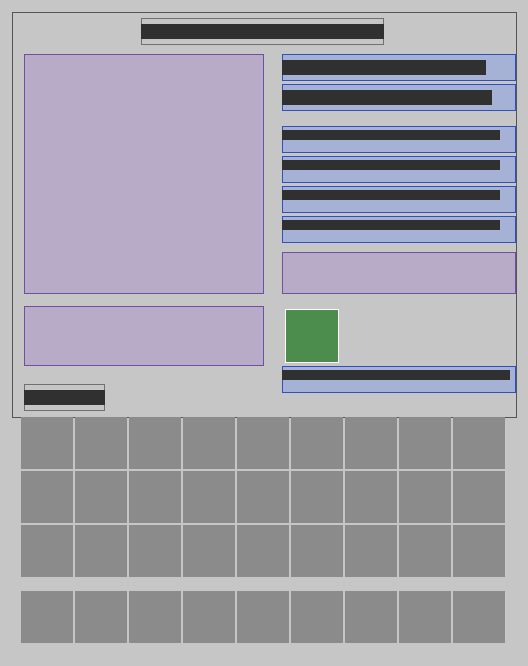
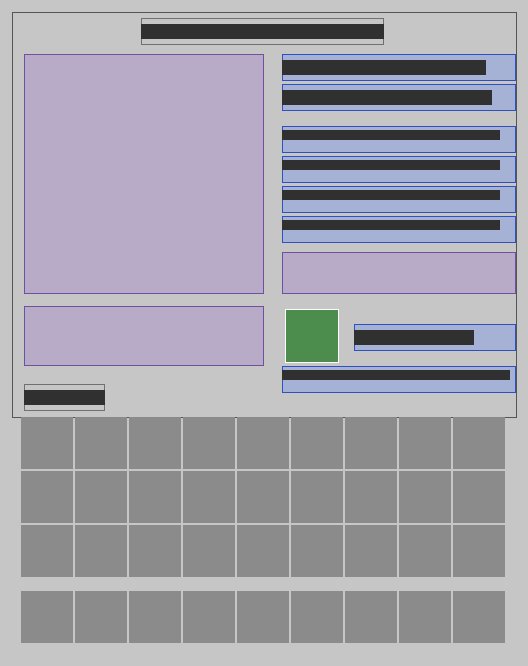
S-003: contamination has an effect - leak paths on p-n junction edges (Circuit, LEAK_PER_DIRT x dirt per edge), the probe varies leak strength 0.5-1.5x per Probe so dirty chips sometimes work and sometimes not; dirt line on the probe screen; no hard gate on coating. 8x8 example: process dirt 14 give

Changed region(s): [[0.6667, 0.4805, 1.0, 0.5405]]

diff --git a/src/main/java/com/taku3/semiconductorlab/litho/Circuit.java b/src/main/java/com/taku3/semiconductorlab/litho/Circuit.java
@@ -21,6 +21,12 @@ public final class Circuit {
     static final double VT = 0.02585, IS = 1e-14, ALPHA = 0.99, CONTACT_OHMS = 20, GMIN = 1e-9;
     /** これより大きい順方向の電圧は直線でのばす（指数が大きくなりすぎないように） */
     static final double VMAX = 0.85;
+    /**
+     * 汚れ1つあたり、pn 接合の辺1つに並ぶ漏れのコンダクタンス（S、ゲームの値 ⚠、S-003）。
+     * 金属の汚れ（Na・Fe など）は接合のまわりに漏れ道を作る。8×8 の NOT の例は工程の汚れ約14で出力の高い方が約3.7 Vに下がり、
+     * 汚れが200ほどになると動かない
+     */
+    public static final double LEAK_PER_DIRT = 3e-7;
 
     /** 解いた結果：点ごとの電圧、パッドから流れこむ電流（A）、マスごとの電流の大きさ（表示用） */
     public record Solution(double[] volts, Map<Integer, Double> padAmps, double[] cellAmps, boolean converged) {
@@ -39,8 +45,12 @@ public final class Circuit {
     private static double gd(double v) { return IS / VT * Math.exp(Math.min(v, VMAX) / VT); }
 
     /** drive：パッドの線の番号 → 電圧（つながないパッドは入れない） */
-    public static Solution solve(Netlist nl, Map<Integer, Double> drive) {
+    public static Solution solve(Netlist nl, Map<Integer, Double> drive) { return solve(nl, drive, 1.0); }
+
+    /** leakScale：漏れの強さの倍率（検査台で「調べる」たびに少し変わる＝汚れたチップは動いたり動かなかったりする） */
+    public static Solution solve(Netlist nl, Map<Integer, Double> drive, double leakScale) {
         ChipModel m = nl.model;
+        double leak = LEAK_PER_DIRT * m.contamination * leakScale;
         int n = m.size, cells = n * n, nodes = cells + nl.nets.size();
         List<Res> res = new ArrayList<>();
         List<Dio> dio = new ArrayList<>();
@@ -53,7 +63,10 @@ public final class Circuit {
                 if (!m.inside(a, b)) continue;
                 int j = b * n + a;
                 if (m.type(x, y) == m.type(a, b)) res.add(new Res(i, j, 2 / (m.sheetOhms(x, y) + m.sheetOhms(a, b))));
-                else if (m.type(x, y) == 'p') dio.add(new Dio(i, j)); else dio.add(new Dio(j, i));
+                else {
+                    if (m.type(x, y) == 'p') dio.add(new Dio(i, j)); else dio.add(new Dio(j, i));
+                    if (leak > 0) res.add(new Res(i, j, leak));   // 汚れの漏れ道
+                }
             }
         }
         for (Netlist.Transistor t : nl.transistors) {
@@ -193,17 +206,21 @@ public final class Circuit {
     private static boolean isPad(Netlist nl, int net) { return net >= 0 && nl.nets.get(net).isPad(); }
 
     /** NOT のパッドに 入力を与えて出力の電圧を計算（出力はつながない） */
-    public static double notOutput(Netlist nl, int[] pins, boolean input) {
+    public static double notOutput(Netlist nl, int[] pins, boolean input) { return notOutput(nl, pins, input, 1.0); }
+
+    public static double notOutput(Netlist nl, int[] pins, boolean input, double leakScale) {
         Map<Integer, Double> d = new HashMap<>();
         d.put(pins[0], input ? VCC : 0.0);
         d.put(pins[2], VCC);
         d.put(pins[3], 0.0);
-        return solve(nl, d).netVolts(nl, pins[1]);
+        return solve(nl, d, leakScale).netVolts(nl, pins[1]);
     }
 
     /** NOT として本当に動くか（入力 0 → 出力が高い、入力 1 → 出力が低い） */
-    public static boolean worksAsNot(Netlist nl) {
+    public static boolean worksAsNot(Netlist nl) { return worksAsNot(nl, 1.0); }
+
+    public static boolean worksAsNot(Netlist nl, double leakScale) {
         int[] p = notPins(nl);
-        return p != null && notOutput(nl, p, false) > HIGH && notOutput(nl, p, true) < HIGH;
+        return p != null && notOutput(nl, p, false, leakScale) > HIGH && notOutput(nl, p, true, leakScale) < HIGH;
     }
 }

diff --git a/src/main/java/com/taku3/semiconductorlab/litho/Discoveries.java b/src/main/java/com/taku3/semiconductorlab/litho/Discoveries.java
@@ -2,7 +2,6 @@ package com.taku3.semiconductorlab.litho;
 
 import java.util.ArrayList;
 import java.util.List;
-import java.util.function.Predicate;
 
 /**
  * 発見の一覧（LITHO_DESIGN §6.3）。検査台でチップを調べ、歴史上の発明と同じつながりなら「見つけた」とする。
@@ -12,7 +11,7 @@ public final class Discoveries {
     private Discoveries() {}
 
     /** 発見1つ：id（lang・図鑑・進捗の名前）・年・ノード・判定 */
-    public record Discovery(String id, int year, String node, Predicate<Netlist> test) {
+    public record Discovery(String id, int year, String node, java.util.function.BiPredicate<Netlist, Double> test) {
         /** lang：litho.semiconductor-lab.discovery.&lt;id&gt;（名前）・.found（「あなたは…を自分で作った」） */
         public String langKey() { return "litho.semiconductor-lab.discovery." + id; }
     }
@@ -20,22 +19,25 @@ public final class Discoveries {
     private static final List<Discovery> ALL = new ArrayList<>();
 
     static {
-        add("diffused_resistor", 1958, "9-22", nl -> !nl.resistors.isEmpty());
-        add("junction_diode", 1940, "9-05", nl -> !nl.diodes.isEmpty() || !nl.transistors.isEmpty());
-        add("planar_transistor", 1959, "9-18", nl -> !nl.transistors.isEmpty());
-        add("rtl_not", 1961, "10-09", Circuit::worksAsNot);
+        add("diffused_resistor", 1958, "9-22", (nl, k) -> !nl.resistors.isEmpty());
+        add("junction_diode", 1940, "9-05", (nl, k) -> !nl.diodes.isEmpty() || !nl.transistors.isEmpty());
+        add("planar_transistor", 1959, "9-18", (nl, k) -> !nl.transistors.isEmpty());
+        add("rtl_not", 1961, "10-09", Circuit::worksAsNot);   // 汚れた（漏れる）チップは動かないことがある
     }
 
-    private static void add(String id, int year, String node, Predicate<Netlist> test) { ALL.add(new Discovery(id, year, node, test)); }
+    private static void add(String id, int year, String node, java.util.function.BiPredicate<Netlist, Double> test) { ALL.add(new Discovery(id, year, node, test)); }
 
     public static List<Discovery> all() { return List.copyOf(ALL); }
 
     public static Discovery byId(String id) { return ALL.stream().filter(d -> d.id().equals(id)).findFirst().orElse(null); }
 
     /** このチップで見つかるもの（一覧の順） */
-    public static List<Discovery> match(Netlist nl) {
+    public static List<Discovery> match(Netlist nl) { return match(nl, 1.0); }
+
+    /** leakScale：汚れの漏れの強さの倍率（検査台は「調べる」たびに 0.5〜1.5 で変える） */
+    public static List<Discovery> match(Netlist nl, double leakScale) {
         List<Discovery> out = new ArrayList<>();
-        for (Discovery d : ALL) if (d.test().test(nl)) out.add(d);
+        for (Discovery d : ALL) if (d.test().test(nl, leakScale)) out.add(d);
         return out;
     }
 }

diff --git a/src/gametest/java/com/taku3/semiconductorlab/gametest/SemiconductorTests.java b/src/gametest/java/com/taku3/semiconductorlab/gametest/SemiconductorTests.java
@@ -894,8 +894,17 @@ public class SemiconductorTests extends LabTestBase {
         be.onButton(player, padIndex.applyAsInt(pins[0]));                                              // 入力 5 V
         var sol = com.taku3.semiconductorlab.litho.Circuit.solve(nl, com.taku3.semiconductorlab.block.ProbeStationBlockEntity.drive(nl, be::padState));
         var hiIn = sol.netVolts(nl, pins[1]);
-        h.assertTrue(lo > 4.5 && hiIn < 1.5, String.format("probe: in 0 V -> out %.2f V, in 5 V -> out %.2f V", lo, hiIn));
+        h.assertTrue(lo > com.taku3.semiconductorlab.litho.Circuit.HIGH && hiIn < 1.5, String.format("probe: in 0 V -> out %.2f V, in 5 V -> out %.2f V (process dirt lowers the high side)", lo, hiIn));
         h.assertTrue(sol.padAmps().get(pins[2]) > 1e-4, "current flows from the 5 V pad when the transistor is on");
+        // 汚れ（S-003）：工程の汚れでも NOT として動くが、出力の高い方が下がる（漏れ）。とても汚れると動かない
+        var st = chip.get(ModDataComponents.CHIP_STATE);
+        var cleanNl = com.taku3.semiconductorlab.litho.Netlist.extract(com.taku3.semiconductorlab.litho.ChipModel.of(com.taku3.semiconductorlab.litho.ChipOps.clean(chip, 0).out().get(ModDataComponents.CHIP_STATE)));
+        double hiDirty = com.taku3.semiconductorlab.litho.Circuit.notOutput(nl, pins, false), hiClean = com.taku3.semiconductorlab.litho.Circuit.notOutput(cleanNl, pins, false);
+        h.assertTrue(st.contamination() > 0 && hiDirty < hiClean - 0.3 && hiDirty > com.taku3.semiconductorlab.litho.Circuit.HIGH,
+                String.format("dirt %d: out high %.2f V (clean %.2f V) - degraded but still a NOT", st.contamination(), hiDirty, hiClean));
+        var filthy = new com.taku3.semiconductorlab.litho.ChipState(st.size(), st.substrate(), st.done(), st.windows(), st.resist(), st.resistPattern(), st.metalFilm(), st.reclaims(), 200);
+        var filthyNl = com.taku3.semiconductorlab.litho.Netlist.extract(com.taku3.semiconductorlab.litho.ChipModel.of(filthy));
+        h.assertFalse(com.taku3.semiconductorlab.litho.Circuit.worksAsNot(filthyNl), "very dirty chip does not work as a NOT");
         h.assertTrue(be.onButton(player, com.taku3.semiconductorlab.block.ProbeStationBlockEntity.BTN_PROBE), "probe");
         h.assertValueEqual(be.found(), 0b1111, "four discoveries on this chip");
         for (var d : com.taku3.semiconductorlab.litho.Discoveries.all())

diff --git a/src/main/java/com/taku3/semiconductorlab/litho/ChipModel.java b/src/main/java/com/taku3/semiconductorlab/litho/ChipModel.java
@@ -10,15 +10,18 @@ public final class ChipModel {
     public final int size;
     /** 板の型 'p' / 'n' */
     public final char substrate;
+    /** 汚れ（[9-14]、S-003）：pn 接合の漏れ電流になる。設計図からの予想では 0 */
+    public final int contamination;
     /** マスの型 'p' / 'n' */
     private final char[] type;
     /** マスの型を決めた拡散の番号（0＝板、1＝1回目の拡散…）。あとの拡散ほど濃い */
     private final int[] level;
     private final boolean[] contact, metal;
 
-    private ChipModel(int size, char substrate) {
+    private ChipModel(int size, char substrate, int contamination) {
         this.size = size;
         this.substrate = substrate;
+        this.contamination = contamination;
         type = new char[size * size];
         level = new int[size * size];
         contact = new boolean[size * size];
@@ -36,8 +39,8 @@ public final class ChipModel {
         }
     }
 
-    private static ChipModel build(int size, String substrate, List<? extends Object> layers) {
-        ChipModel m = new ChipModel(size, substrate.isEmpty() ? 'p' : substrate.charAt(0));
+    private static ChipModel build(int size, String substrate, List<? extends Object> layers, int contamination) {
+        ChipModel m = new ChipModel(size, substrate.isEmpty() ? 'p' : substrate.charAt(0), contamination);
         int d = 0;
         for (Object o : layers) {
             LayerKind k; BitGrid g;
@@ -50,10 +53,10 @@ public final class ChipModel {
     }
 
     /** 工程を終えたウェハーの中身から（まだ露光していなければ null） */
-    public static ChipModel of(ChipState s) { return s.sized() ? build(s.size(), s.substrate(), s.done()) : null; }
+    public static ChipModel of(ChipState s) { return s.sized() ? build(s.size(), s.substrate(), s.done(), s.contamination()) : null; }
 
     /** 設計図から（板の型は substrate） */
-    public static ChipModel of(ChipDesign d, String substrate) { return build(d.size(), substrate, d.layers()); }
+    public static ChipModel of(ChipDesign d, String substrate) { return build(d.size(), substrate, d.layers(), 0); }
 
     public boolean inside(int x, int y) { return x >= 0 && y >= 0 && x < size && y < size; }
     public char type(int x, int y) { return type[y * size + x]; }

diff --git a/src/main/java/com/taku3/semiconductorlab/block/ProbeStationBlockEntity.java b/src/main/java/com/taku3/semiconductorlab/block/ProbeStationBlockEntity.java
@@ -57,7 +57,8 @@ public class ProbeStationBlockEntity extends BlockEntity implements MachineBE {
                 .text("pad", RIGHT_X, 18, 78, 1, "gui.semiconductor-lab.probe_station.pad").samples("12", "5 V").fit()
                 .text("amps", RIGHT_X, 28, 78, 1, "gui.semiconductor-lab.probe_station.amps").samples("-123.4 mA").fit();
         for (int i = 0; i < 4; i++) b.lazyText("found" + i, RIGHT_X, 42 + 10 * i, 78, 1, () -> Discoveries.all().stream().map(Discoveries.Discovery::langKey).toList()).fit();
-        LAYOUT = b.text("hint", RIGHT_X, 122, 78, 1, MachineLayout.keys("gui.semiconductor-lab.probe_station.", "need_wafer", "set_pads", "nothing")).fit()
+        LAYOUT = b.text("dirt", WAFER_X + 22, WAFER_Y + 4, 54, 1, "gui.semiconductor-lab.probe_station.dirt").samples("200").fit()
+                .text("hint", RIGHT_X, 122, 78, 1, MachineLayout.keys("gui.semiconductor-lab.probe_station.", "need_wafer", "set_pads", "nothing")).fit()
                 .build();
     }
 
@@ -122,7 +123,8 @@ public class ProbeStationBlockEntity extends BlockEntity implements MachineBE {
             return true;
         }
         if (id == BTN_PROBE) {
-            List<Discoveries.Discovery> hits = Discoveries.match(nl);
+            double leakScale = level == null ? 1.0 : 0.5 + level.getRandom().nextDouble();   // 汚れの漏れは毎回少しちがう（S-003）
+            List<Discoveries.Discovery> hits = Discoveries.match(nl, leakScale);
             int mask = 0;
             for (Discoveries.Discovery d : hits) mask |= 1 << Discoveries.all().indexOf(d);
             found = mask;

diff --git a/src/client/java/com/taku3/semiconductorlab/client/ProbeStationScreen.java b/src/client/java/com/taku3/semiconductorlab/client/ProbeStationScreen.java
@@ -132,6 +132,10 @@ public class ProbeStationScreen extends MachineScreen {
                 Double a = sol == null ? null : sol.padAmps().get(nl.pads().get(hoverPad).id());
                 return a == null ? null : Component.translatable(k + "amps", amps(a));
             }
+            case "dirt" -> {
+                if (nl == null || nl.model.contamination == 0) return null;
+                return Component.translatable(k + "dirt", nl.model.contamination);
+            }
             case "hint" -> {
                 if (nl == null) return Component.translatable(k + "need_wafer");
                 if (menu.get(DATA_PROBED) != 0 && menu.get(DATA_FOUND) == 0) return Component.translatable(k + "nothing");

diff --git a/docs/TEST_QUEUE.md b/docs/TEST_QUEUE.md
@@ -594,6 +594,10 @@
 - [x] 自動✅ NOT の例の5層それぞれのあとに洗浄槽で洗う → 毎回8枚・汚れ0、汚れは洗う前にたまっている、レジスト付きは洗えない、洗っても4つの発見、硝酸なしでは止まる `(cleaning_bench)`
 - [ ] 人間：洗浄槽の GUI（左にウェハー、2列目に硝酸・フッ酸・蒸留水、水色のバー、状態「もうきれい」「レジストを先にはがす」）、瓶3本が上に出る、加工中のウェハーのツールチップの「汚れ」
 
+## 汚れが効く（S-003、A）
+- [x] 自動✅ 工程の汚れ（約14）でも NOT として動くが出力の高い方が下がる（約3.5 V、洗うと約5 V）、汚れ200では動かない `(probe_station)`
+- [ ] 人間：汚れたウェハーを検査台に置くと右に「汚れ N」、電流が漏れて黄色の光が広がるか。洗浄槽（E の [9-14]）で洗うと消えるか。とても汚れたチップで「調べる」を何回か押すと、NOT が見つかったり見つからなかったりするか
+
 ## [12-11] 測量（三角測量）（IMP2、O-007）
 - [x] 自動✅ 底辺 20m・目標 (8,30) で正弦定理の距離が 1cm 以内、1分の読みでも誤差 5cm 未満、細長い三角形で 1° ずれると誤差が大きい、交わらない視線は null、方位 北0°/東90°、測点A の記録 → 短い底辺は保留 → 測点B で計算して消える、lang `(triangulation)`
 - [ ] 人間：セオドライトで遠くの木や塔をのぞいて離す → チャットに方位。横に 10〜20m 歩いて同じ物をのぞく → 距離と「実際の距離・ずれ」。底辺を短くすると誤差が増えるか。のぞいている間の望遠鏡の拡大

diff --git a/docs/LITHO_DESIGN.md b/docs/LITHO_DESIGN.md
@@ -204,6 +204,7 @@ p型の板。n の島（コレクタ）5×5 の中に p（ベース）3×3、そ
 
 ## 変更履歴
 - 2026-10-20 初版（O-002 ①）
+- 2026-10-20 S-003：汚れが効く。ChipModel.contamination、Circuit の pn 接合の辺ごとに漏れ（LEAK_PER_DIRT×汚れ）、検査台の「調べる」は漏れの強さを毎回 0.5〜1.5 倍で変える（汚れたチップは動いたり動かなかったりする）。洗わないと塗れない、にはしない。8×8 の例は工程の汚れ14で出力の高い方 約3.5 V（きれいなら約5 V）、汚れ200で動かない
 - 2026-10-20 ChipState に contamination、ChipOps.clean(w, target)（E の [9-14] 洗浄と相談して決めた。失敗にはしない、ツールチップと v0.5 の歩留まりで）
 - 2026-10-20 検査台（probe_station）：パッドの 0 V・5 V・つながない、Circuit で電流の明るさ、「調べる」で発見（ビット）と進捗 discovery/<id>（impossible を award）、REFERENCES L2
 - 2026-10-20 製図台（drafting_table・layout_sheet・rubylith）。画面の高さ 222（MachineLayout.height）、方眼・断面図は MachineLayout.area で自動チェック

diff --git a/docs/test_queue/9_semiconductor.md b/docs/test_queue/9_semiconductor.md
@@ -55,3 +55,7 @@
 ## [9-14] 洗浄 段階1（IMP4-01）
 - [x] 自動✅ NOT の例の5層それぞれのあとに洗浄槽で洗う → 毎回8枚・汚れ0、汚れは洗う前にたまっている、レジスト付きは洗えない、洗っても4つの発見、硝酸なしでは止まる `(cleaning_bench)`
 - [ ] 人間：洗浄槽の GUI（左にウェハー、2列目に硝酸・フッ酸・蒸留水、水色のバー、状態「もうきれい」「レジストを先にはがす」）、瓶3本が上に出る、加工中のウェハーのツールチップの「汚れ」
+
+## 汚れが効く（S-003、A）
+- [x] 自動✅ 工程の汚れ（約14）でも NOT として動くが出力の高い方が下がる（約3.5 V、洗うと約5 V）、汚れ200では動かない `(probe_station)`
+- [ ] 人間：汚れたウェハーを検査台に置くと右に「汚れ N」、電流が漏れて黄色の光が広がるか。洗浄槽（E の [9-14]）で洗うと消えるか。とても汚れたチップで「調べる」を何回か押すと、NOT が見つかったり見つからなかったりするか

diff --git a/docs/tasks/LOG.md b/docs/tasks/LOG.md
@@ -356,3 +356,5 @@
 - 転炉 [1-26] は銑鉄だけ（#46・#46b を消した、鉄インゴットの placeholder は「錬鉄」に）。[3-05] の「溶鉱炉＝高炉」も、本物の高炉ができたので「高温の窯」だけに
 - 銑鉄ができたので、ほかの担当の銑鉄待ちのノードが進められる。テスト：157/157 PASSED
 - **O-003 完了**（[3-04] 073ad9d・[1-06] b23c7b4・[1-09] この commit）
+## S-003 汚れの効き目（2026-10-20）
+- 「洗わないと塗れない」にはしない。汚れは pn 接合の漏れ道（Circuit、LEAK_PER_DIRT＝3e-7 S×汚れ／辺、ゲームの値）になり、検査台の電流・出力に出る。「調べる」は毎回漏れの強さを 0.5〜1.5 倍で変える → 汚れたチップは動いたり動かなかったりする。検査台に「汚れ N」の行。8×8 の例：工程の汚れ14で出力の高い方 約3.5 V（洗えば約5 V）、汚れ200で動かない。テスト：160/160 PASSED
